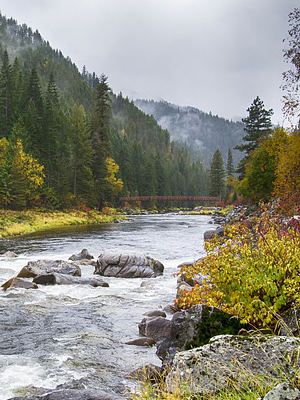
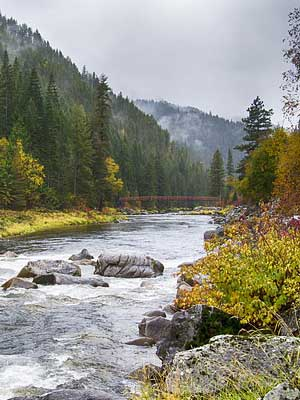
Week 7 Updates 2

diff --git a/lesson7/preston-7.html b/lesson7/preston-7.html
@@ -41,10 +41,10 @@
     <main>
         <div class="herosection">
             <picture class="heroimage">
-                <source media="(max-width: 400px)" srcset="images/wdd230_image_franklin400.jpg">
-                <source media="(min-width: 401px) and (max-width: 960px)" srcset="images/wdd230_image_franklin960.jpg">
-                <source media="(min-width: 961px)" srcset="images/wdd230_image_franklinOptimized.jpg">
-                <img src="images/wdd230_image_franklinOptimized.jpg" alt="franklin image">
+                <source media="(max-width: 400px)" srcset="images/idaho2-400.jpg">
+                <source media="(min-width: 401px) and (max-width: 960px)" srcset="images/idaho2-960.jpg">
+                <source media="(min-width: 961px)" srcset="images/idaho2.jpg">
+                <img src="images/idaho2.jpg" alt="franklin image">
             </picture>
             <section class="weathersummary">
                 <h2>Weather Summary</h2>
